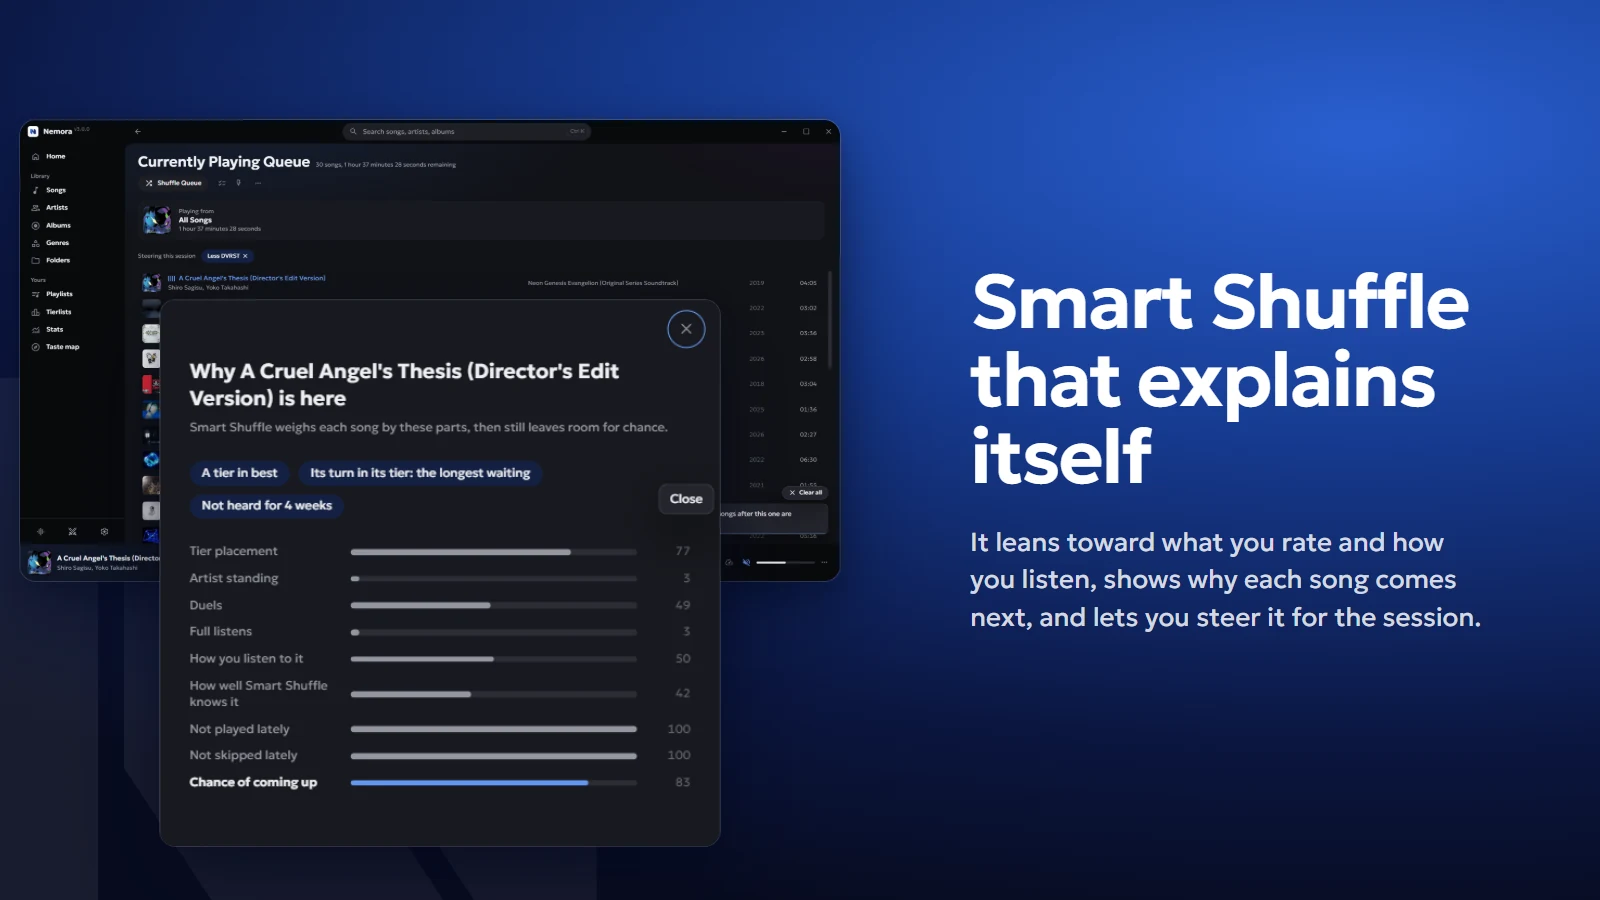
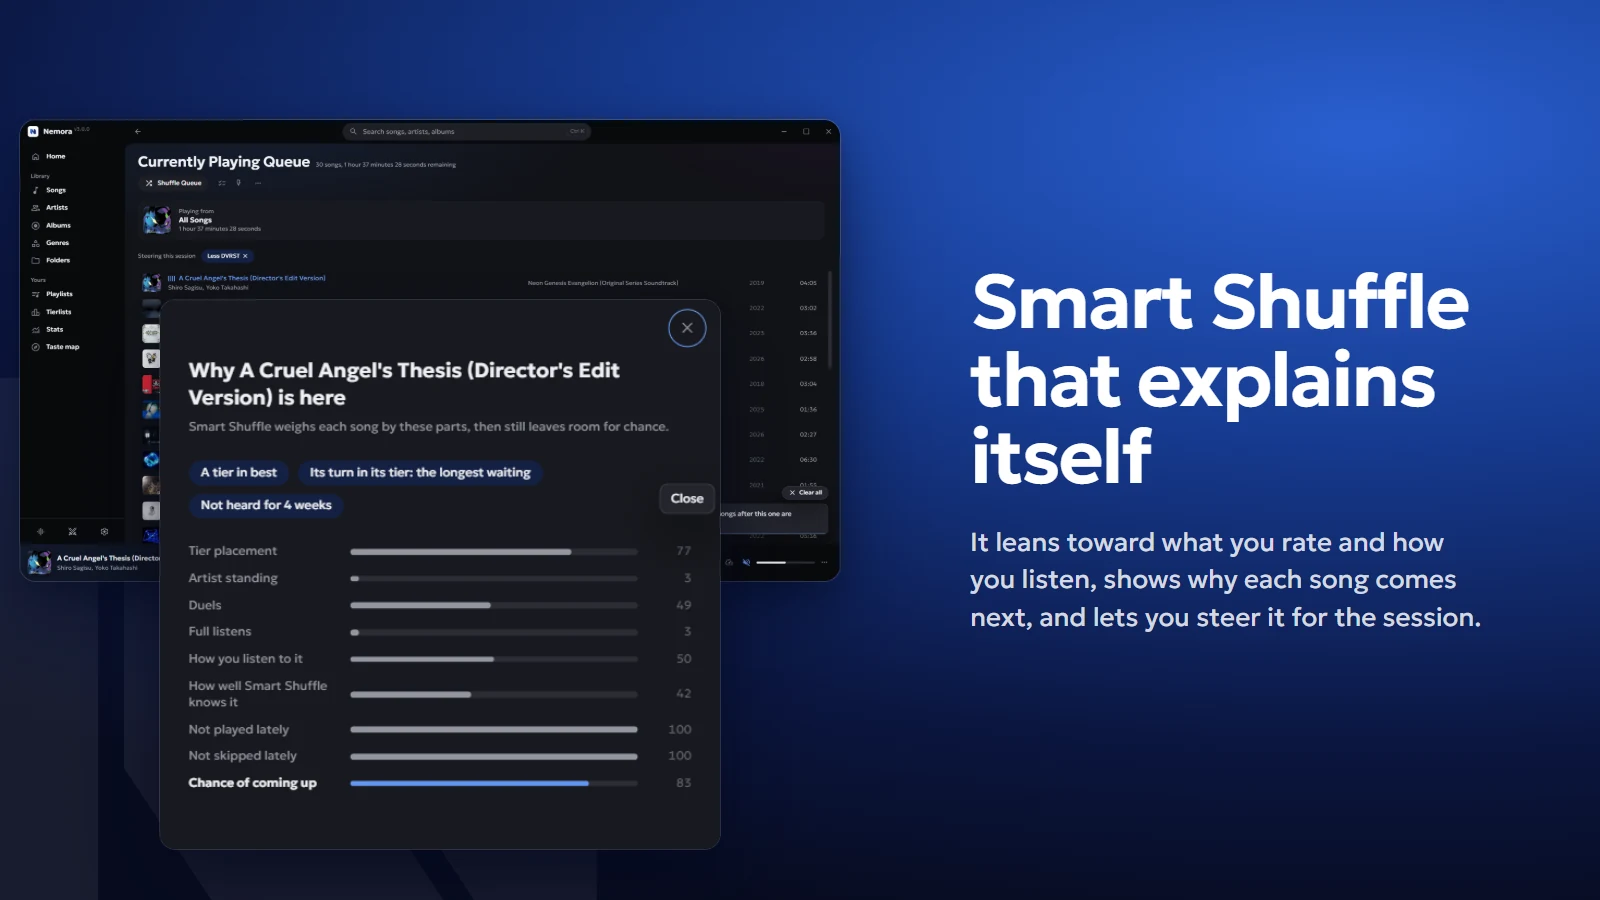
README cards: panels and dialogs are cut just inside their own border (Slowed & reverb, Why this song, Duel, Song Guessr, AI agents, Appearance), so no dark backdrop shows at their edges

diff --git a/tools/readme/compose.py b/tools/readme/compose.py
@@ -24,11 +24,12 @@ BG = {
     "dawn": "linear-gradient(135deg, #5d9bf0 0%, #2a5bc4 45%, #172f78 100%)",
 }
 
-# A shot is (id, theme, crop, place): crop (x0, y0, x1, y1) in the 1600 x 900 shot or None for the whole
+# A shot is (id, theme, crop, place): crop (x0, y0, x1, y1) in the 1600 x 900 shot (a panel or dialog cut just
+# inside its own 1 px border, so no backdrop shows at its edges) or None for the whole
 # window, place (x, y, width) on the 1600 x 900 card. The copy sits on the side named by `side`.
 CARDS = [
     dict(key="shuffle", bg="night", side="left",
-         shots=[("36b-queue-smart", "dark", None, (760, 120, 820)), ("36c-why-this-song", "dark", (542, 197, 1058, 700), (880, 300, 560))],
+         shots=[("36b-queue-smart", "dark", None, (760, 120, 820)), ("36c-why-this-song", "dark", (543, 198, 1057, 702), (880, 300, 560))],
          title="Smart Shuffle<br>that explains itself",
          text="It leans toward what you rate and how you listen, shows why each song comes next, and lets you steer it for the session."),
     dict(key="tierlists", bg="dawn", side="right",
@@ -36,7 +37,7 @@ CARDS = [
          title="Rank your music<br>in tierlists",
          text="Drag songs into tiers, play a tierlist like a playlist, export it as an image. Your tiers feed Smart Shuffle."),
     dict(key="duels", bg="deep", side="left",
-         shots=[("34-duel", "dark", (420, 120, 1180, 780), (760, 120, 600)), ("33-songguessr", "dark", (542, 85, 1058, 815), (1150, 250, 380))],
+         shots=[("34-duel", "dark", (421, 122, 1179, 778), (760, 120, 600)), ("33-songguessr", "dark", (543, 86, 1057, 814), (1150, 250, 380))],
          title="Duels and<br>Song Guessr",
          text="A little bit of fun with your own library. Pick the better of two songs and an ELO rating sorts it by what you really choose. Or name a track from a tenth of a second."),
     dict(key="stats", bg="sky", side="right",
@@ -48,7 +49,7 @@ CARDS = [
          title="Your taste,<br>as a map",
          text="The whole library laid out by how you listen: islands of songs that belong together. Pick an area and play it."),
     dict(key="sound", bg="night", side="right",
-         shots=[("36k-sound-panel", "dark", None, (40, 170, 780)), ("36k-sound-panel", "dark", (1063, 363, 1400, 838), (560, 240, 340))],
+         shots=[("36k-sound-panel", "dark", None, (40, 170, 780)), ("36k-sound-panel", "dark", (1065, 363, 1398, 836), (560, 240, 340))],
          title="Slowed<br>+ reverb",
          text="Speed, pitch and a real reverb in the audio engine. Keep a sound as a version of the song, or switch the song itself to it."),
     dict(key="search", bg="dawn", side="left",
@@ -60,11 +61,11 @@ CARDS = [
          title="Full screen,<br>alive",
          text="Synced lyrics, the cover breathing with the music, a live equalizer under it."),
     dict(key="agents", bg="deep", side="left",
-         shots=[("36w-settings-agents", "dark", (458, 55, 1560, 350), (730, 300, 860))],
+         shots=[("36w-settings-agents", "dark", (458, 53, 1561, 351), (730, 300, 860))],
          title="Ask an AI<br>about your music",
          text="Connect Claude or another agent over MCP: it reads your library and stats, builds playlists, runs the queue. You choose how much it may do."),
     dict(key="yours", bg="sky", side="right",
-         shots=[("36m-home-today", "dark", None, (60, 340, 700)), ("37-accent-picker", "light", (458, 60, 1560, 520), (200, 120, 680))],
+         shots=[("36m-home-today", "dark", None, (60, 340, 700)), ("37-accent-picker", "light", (458, 65, 1561, 520), (200, 120, 680))],
          title="Make it<br>yours",
          text="Light and dark themes, eight accent colours, five frame shades, thirteen languages."),
 ]
